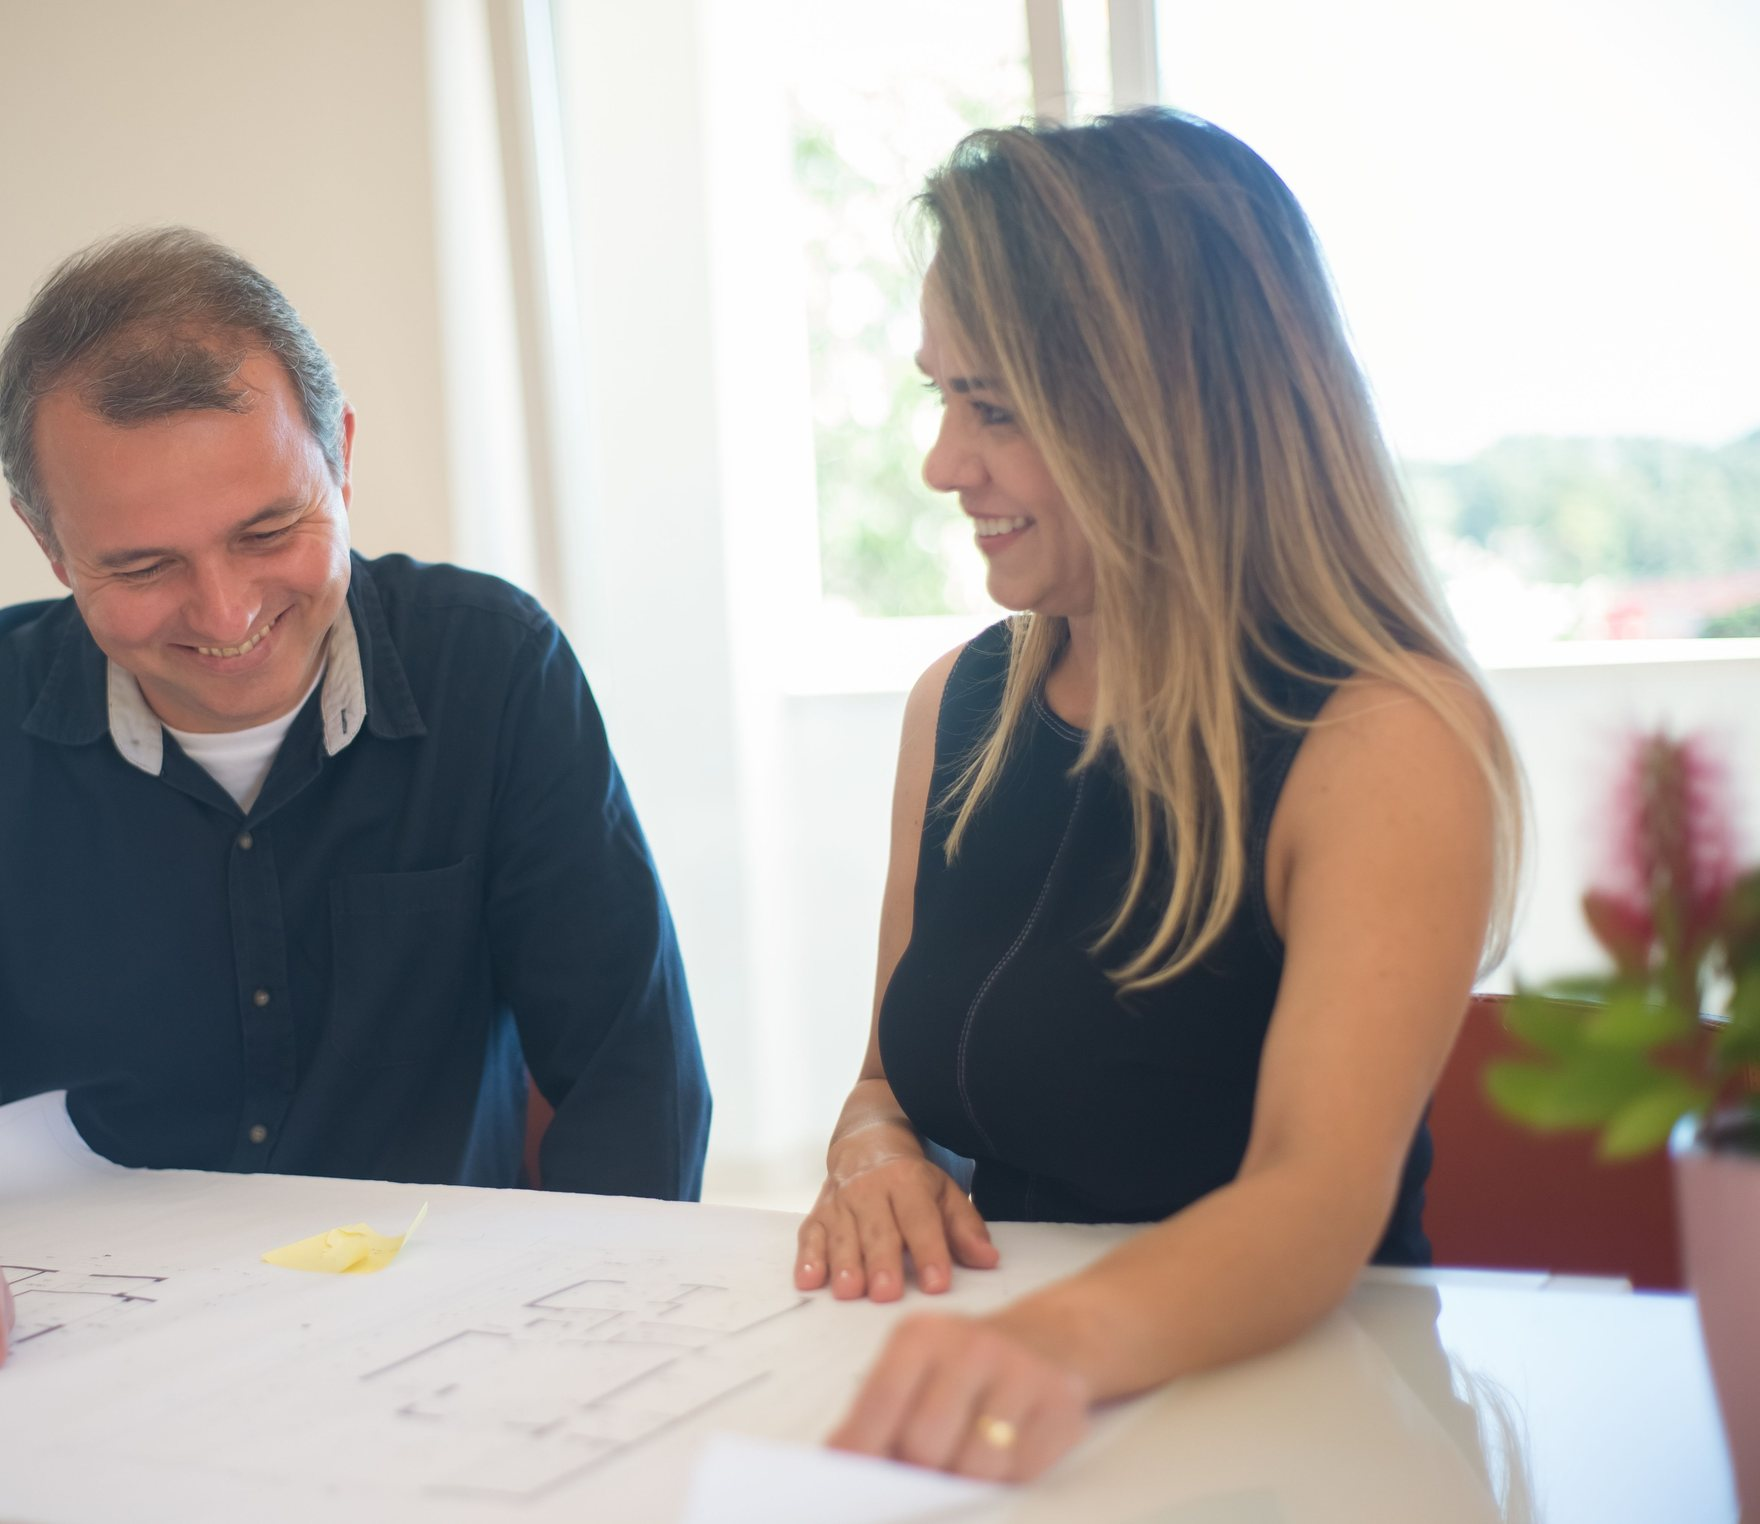
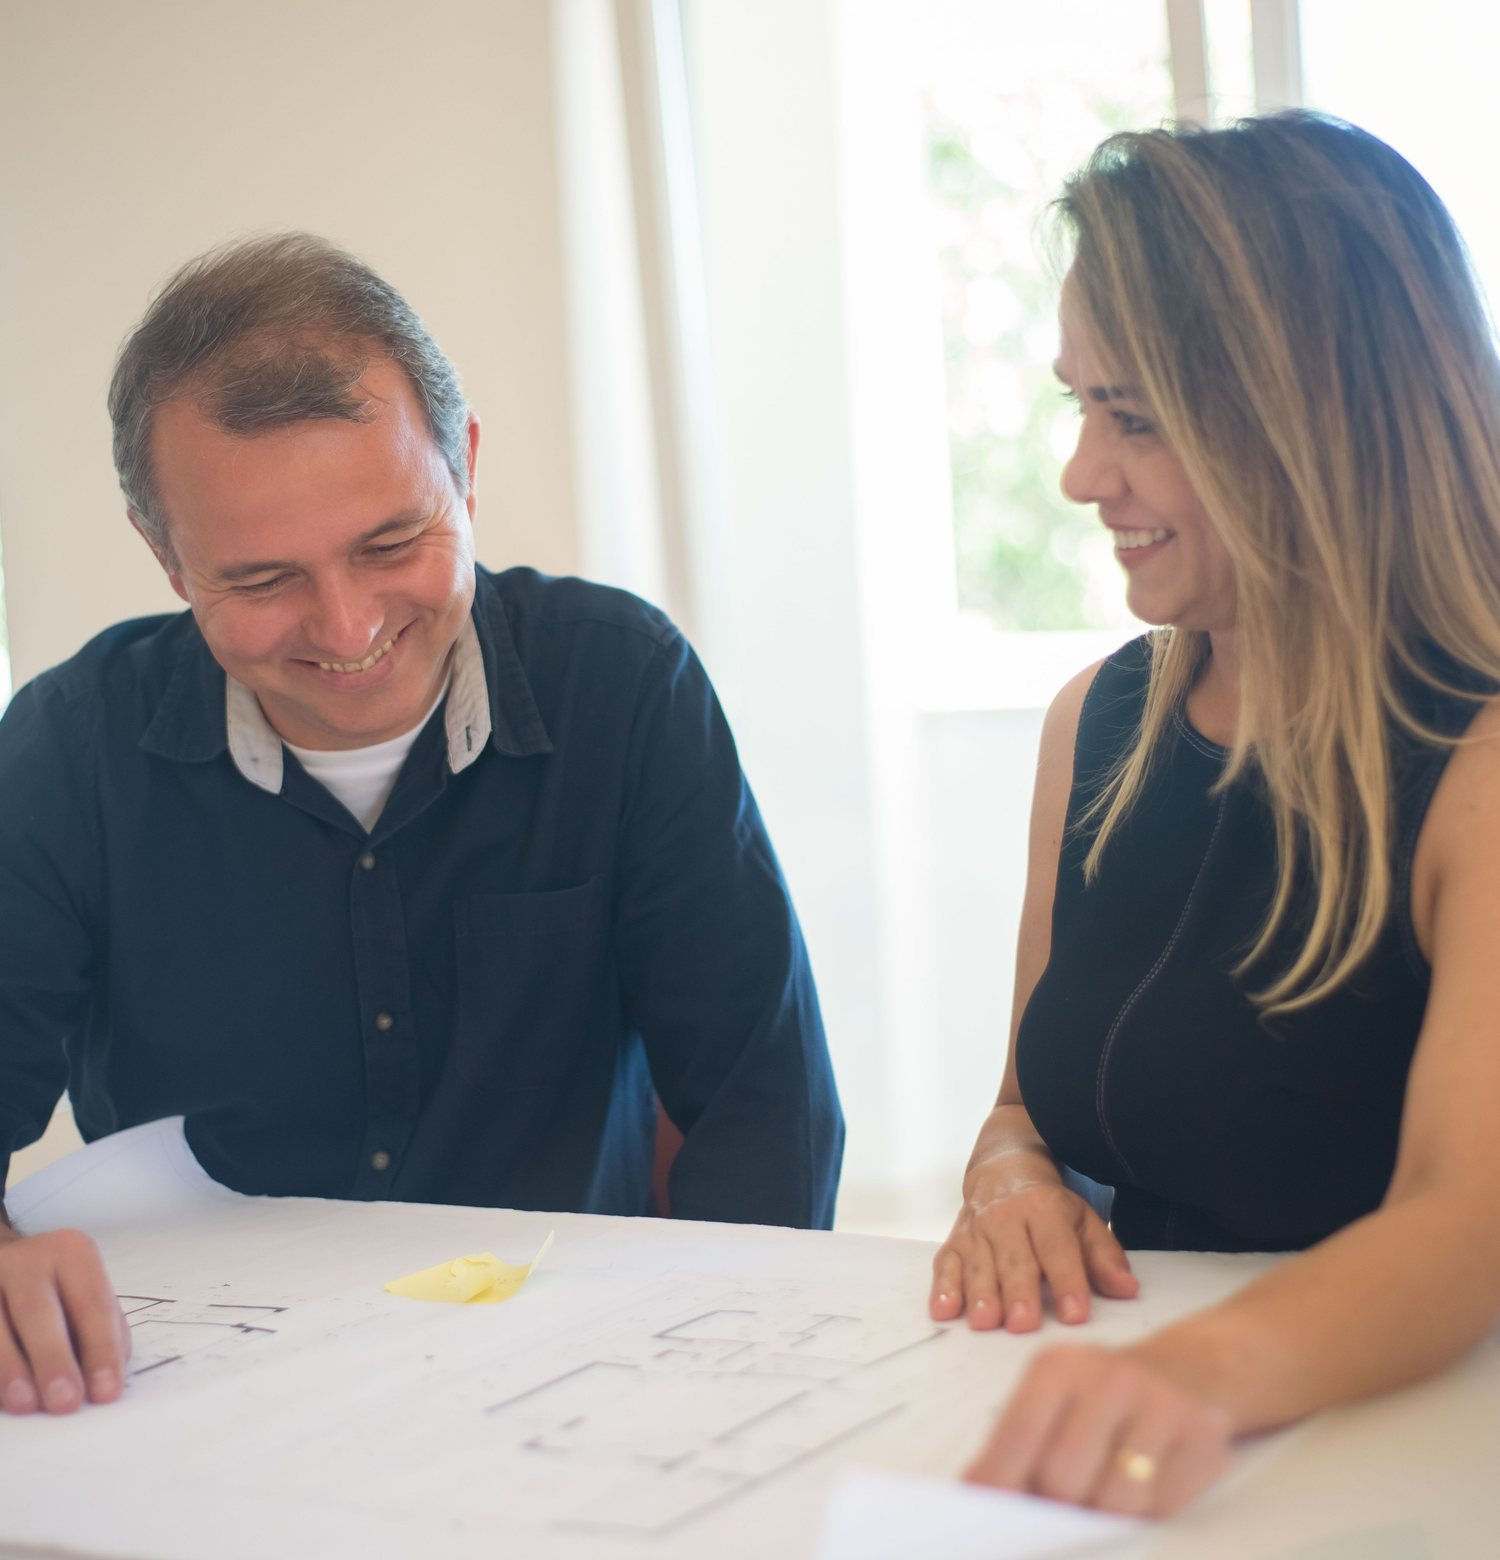
Values section: word-by-word text reveal, taller sharp-cornered photo
Headline/paragraphs now animate in word-by-word on scroll instead of just
appearing (GSAP owns the resting transform via gsap.set() rather than a CSS
transform shorthand -- the CSS version silently failed to animate since GSAP
can't decompose a translateY%+rotate matrix back into yPercent/rotate).

Photo re-cropped taller with both people kept in frame (attention-based
autocrop was cutting one person out), corners squared off per explicit
"pointy, not oval" feedback.

diff --git a/index.html b/index.html
@@ -607,11 +607,27 @@
     margin-top: 20px;
   }
 
+  /* Word-by-word entrance reveal for the headline + paragraphs, matching
+     the per-word translateY+rotate technique measured on Haven's own DOM
+     (their words sit at rest around translateY(83-100%) rotate(8-10deg)
+     until scrolled into view, then settle to 0/0deg). Split at runtime via
+     splitWords() below rather than hardcoding spans in markup. */
+  .reveal-word {
+    display: inline-block;
+    overflow: hidden;
+    vertical-align: top;
+  }
+
+  .reveal-word__inner {
+    display: inline-block;
+    transform-origin: left bottom;
+  }
+
   .values__media {
     position: relative;
     overflow: hidden;
-    border-radius: 8px;
-    aspect-ratio: 1.155 / 1;
+    border-radius: 0;
+    aspect-ratio: 25 / 26;
     margin-top: clamp(40px, 6vw, 64px);
     background: #e5e5e5;
   }
@@ -1232,6 +1248,57 @@
       });
     }, { threshold: 0.4 });
     io.observe(valuesDivider);
+  }
+
+  // Word-by-word entrance for the headline + paragraphs, so the text comes
+  // in on scroll rather than just being there. Splits each element's text
+  // into individually-clipped word spans (each in an overflow:hidden outer
+  // span so a transform on the inner span reveals it), then staggers them
+  // in with GSAP once the section scrolls into view. One-shot, same pattern
+  // as the divider reveal above.
+  function splitWords(el) {
+    const words = el.textContent.trim().split(/\s+/);
+    el.innerHTML = words
+      .map((w) => `<span class="reveal-word"><span class="reveal-word__inner">${w}</span></span>`)
+      .join(' ');
+    return el.querySelectorAll('.reveal-word__inner');
+  }
+
+  const valuesHeadline = document.querySelector('.values__headline');
+  const valuesCopyEls = document.querySelectorAll('.values__copy');
+  if (valuesHeadline && valuesCopyEls.length && window.gsap && 'IntersectionObserver' in window) {
+    const headlineWords = splitWords(valuesHeadline);
+    const copyWords = Array.from(valuesCopyEls).flatMap((p) => Array.from(splitWords(p)));
+    // Set the resting (hidden) state through GSAP itself rather than a CSS
+    // transform shorthand -- GSAP owns yPercent/rotate as separate tracked
+    // properties, so a later .to({yPercent:0}) tween interpolates cleanly.
+    // (A CSS-declared `transform: translateY(115%) rotate(8deg)` resolves to
+    // a plain matrix in getComputedStyle, which GSAP can't decompose back
+    // into yPercent + rotate, so the reveal tween silently never moves.)
+    gsap.set([...headlineWords, ...copyWords], { yPercent: 115, rotate: 8 });
+
+    const io = new IntersectionObserver((entries) => {
+      entries.forEach((entry) => {
+        if (entry.isIntersecting) {
+          const tl = gsap.timeline();
+          tl.to(headlineWords, {
+            yPercent: 0,
+            rotate: 0,
+            duration: 0.9,
+            ease: 'power3.out',
+            stagger: 0.025
+          }).to(copyWords, {
+            yPercent: 0,
+            rotate: 0,
+            duration: 0.7,
+            ease: 'power3.out',
+            stagger: 0.008
+          }, '-=0.55');
+          io.unobserve(entry.target);
+        }
+      });
+    }, { threshold: 0.3 });
+    io.observe(document.querySelector('.values__container'));
   }
 
   const valuesMedia = document.getElementById('valuesMedia');
